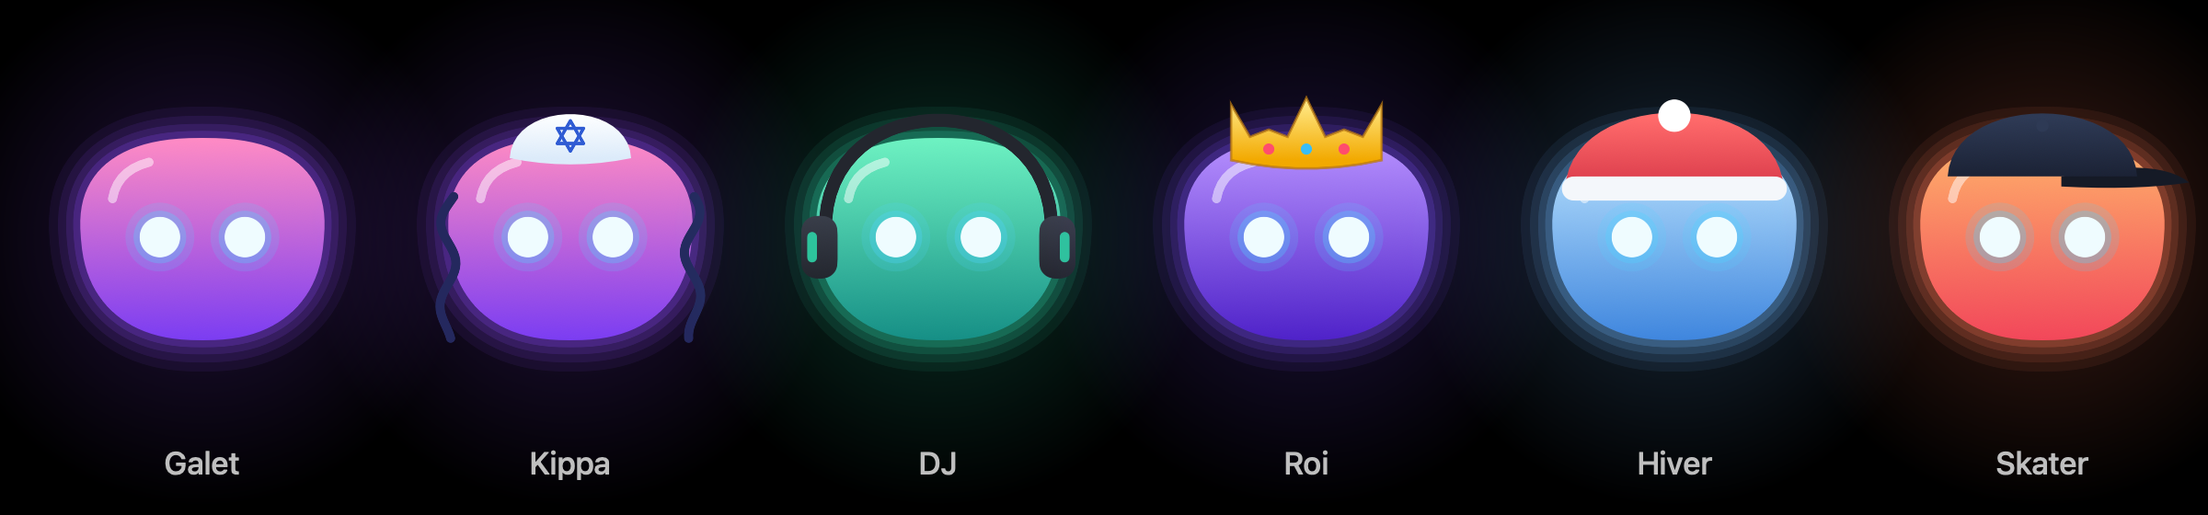
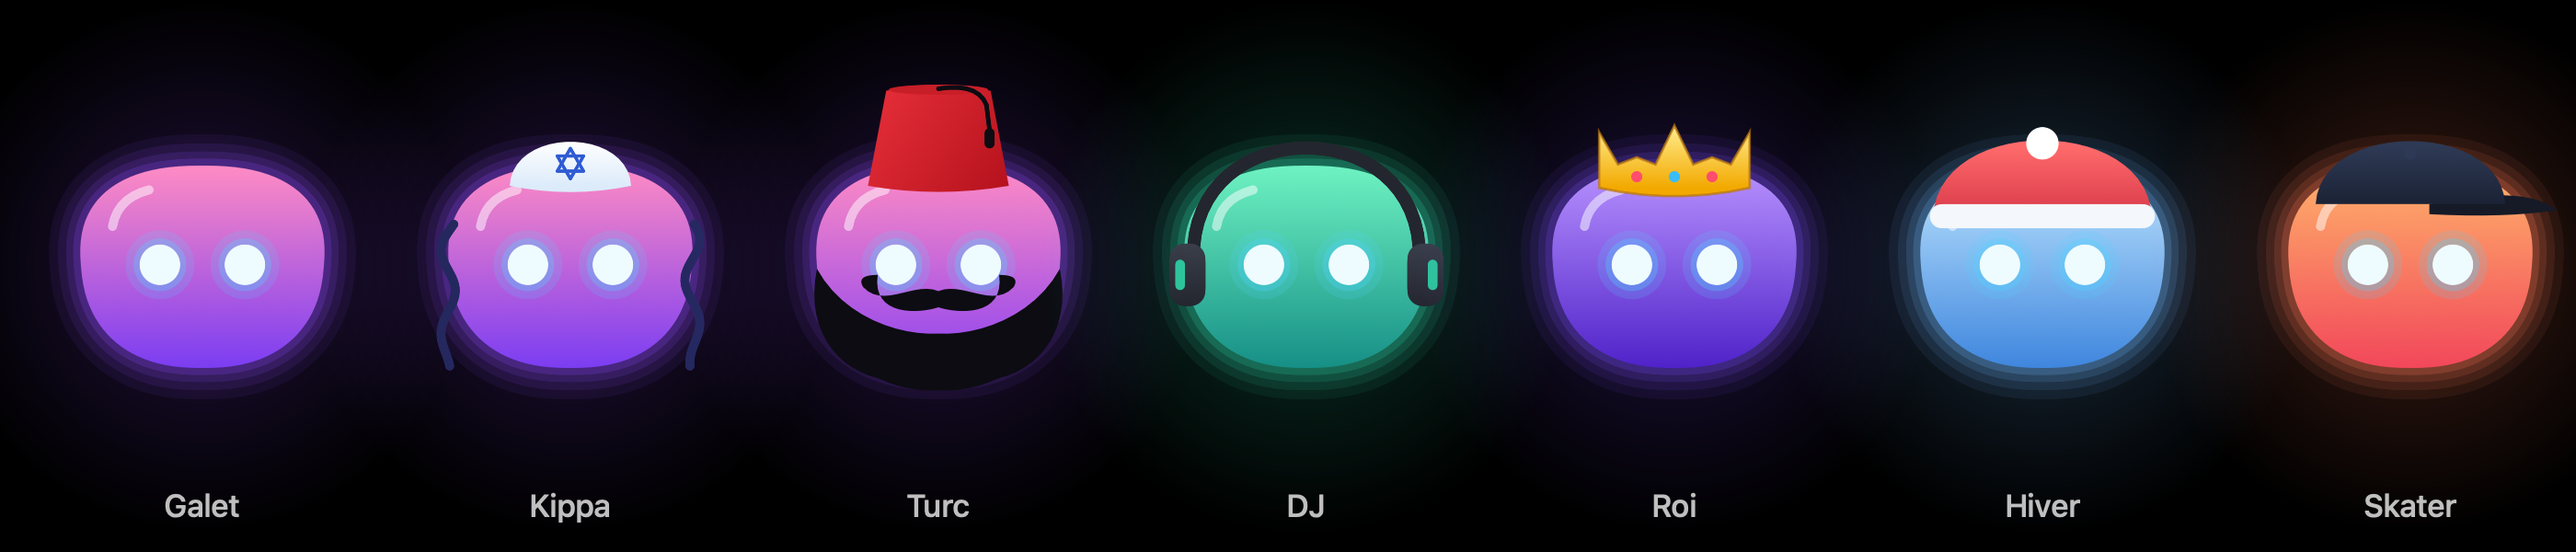
Skin Turc : fez rouge à pompon, barbe et moustache

diff --git a/app/Mochi.swift b/app/Mochi.swift
@@ -478,11 +478,58 @@ final class Mochi {
         case .kippah:
             drawPayot(ctx, hw: hw, hh: hh)
             drawKippah(ctx, hw: hw, hh: hh)
+        case .fez: drawFez(ctx, hw: hw, hh: hh)
         case .headphones: drawHeadphones(ctx, hw: hw, hh: hh)
         case .crown: drawCrown(ctx, hw: hw, hh: hh)
         case .beanie: drawBeanie(ctx, hw: hw, hh: hh)
         case .cap: drawCap(ctx, hw: hw, hh: hh)
         }
+    }
+
+    /// Skin Turc : grande barbe noire, moustache, et le fez rouge à pompon noir.
+    private func drawFez(_ ctx: GraphicsContext, hw: Double, hh: Double) {
+        let black = Color(hex: "#0C0C12")
+        // Barbe : elle part du bas des joues, entoure la bouche par en dessous et dépasse sous la tête, en vagues.
+        var beard = Path()
+        beard.move(to: CGPoint(x: -hw * 1.0, y: hh * 0.02))
+        beard.addCurve(to: CGPoint(x: -hw * 0.5, y: hh * 1.1), control1: CGPoint(x: -hw * 1.1, y: hh * 0.6), control2: CGPoint(x: -hw * 0.85, y: hh * 1.0))
+        beard.addQuadCurve(to: CGPoint(x: 0, y: hh * 1.22), control: CGPoint(x: -hw * 0.25, y: hh * 1.24))
+        beard.addQuadCurve(to: CGPoint(x: hw * 0.5, y: hh * 1.1), control: CGPoint(x: hw * 0.25, y: hh * 1.24))
+        beard.addCurve(to: CGPoint(x: hw * 1.0, y: hh * 0.02), control1: CGPoint(x: hw * 0.85, y: hh * 1.0), control2: CGPoint(x: hw * 1.1, y: hh * 0.6))
+        beard.addCurve(to: CGPoint(x: 0, y: hh * 0.66), control1: CGPoint(x: hw * 0.78, y: hh * 0.5), control2: CGPoint(x: hw * 0.32, y: hh * 0.68))
+        beard.addCurve(to: CGPoint(x: -hw * 1.0, y: hh * 0.02), control1: CGPoint(x: -hw * 0.32, y: hh * 0.68), control2: CGPoint(x: -hw * 0.78, y: hh * 0.5))
+        beard.closeSubpath()
+        ctx.fill(beard, with: .color(black))
+        // Moustache : deux mèches qui remontent au bout.
+        for side in [-1.0, 1.0] {
+            var m = Path()
+            m.move(to: CGPoint(x: 0, y: hh * 0.24))
+            m.addCurve(to: CGPoint(x: side * hw * 0.62, y: hh * 0.2), control1: CGPoint(x: side * hw * 0.2, y: hh * 0.14), control2: CGPoint(x: side * hw * 0.45, y: hh * 0.42))
+            m.addQuadCurve(to: CGPoint(x: side * hw * 0.5, y: hh * 0.08), control: CGPoint(x: side * hw * 0.68, y: hh * 0.08))
+            m.addCurve(to: CGPoint(x: 0, y: hh * 0.4), control1: CGPoint(x: side * hw * 0.55, y: hh * 0.5), control2: CGPoint(x: side * hw * 0.15, y: hh * 0.46))
+            m.closeSubpath()
+            ctx.fill(m, with: .color(black))
+        }
+        // Fez : tronc de cône rouge posé sur le haut de la tête.
+        let bottom = -hh * 0.8, top = -hh * 1.8, wb = hw * 0.58, wt = hw * 0.43
+        var fez = Path()
+        fez.move(to: CGPoint(x: -wb, y: bottom))
+        fez.addLine(to: CGPoint(x: -wt, y: top + hh * 0.06))
+        fez.addQuadCurve(to: CGPoint(x: wt, y: top + hh * 0.06), control: CGPoint(x: 0, y: top - hh * 0.04))
+        fez.addLine(to: CGPoint(x: wb, y: bottom))
+        fez.addQuadCurve(to: CGPoint(x: -wb, y: bottom), control: CGPoint(x: 0, y: bottom + hh * 0.12))
+        fez.closeSubpath()
+        ctx.fill(fez, with: .linearGradient(Gradient(colors: [Color(hex: "#E8303A"), Color(hex: "#B5121D")]),
+                                            startPoint: CGPoint(x: -wb, y: top), endPoint: CGPoint(x: wb, y: bottom)))
+        guard !mini else { return }
+        ctx.fill(Path(ellipseIn: CGRect(cx: 0, cy: top + hh * 0.05, w: wt * 1.9, h: hh * 0.1)), with: .color(Color(hex: "#C81E28")))
+        // Pompon : un cordon noir qui part du sommet et pend sur le côté.
+        var cord = Path()
+        cord.move(to: CGPoint(x: 0, y: top + hh * 0.04))
+        cord.addQuadCurve(to: CGPoint(x: wt * 0.92, y: top + hh * 0.2), control: CGPoint(x: wt * 0.75, y: top - hh * 0.02))
+        cord.addLine(to: CGPoint(x: wt * 0.98, y: top + hh * 0.45))
+        ctx.stroke(cord, with: .color(black), style: StrokeStyle(lineWidth: max(0.6, hh * 0.045), lineCap: .round, lineJoin: .round))
+        ctx.fill(Path(roundedRect: CGRect(cx: wt * 0.98, cy: top + hh * 0.53, w: hh * 0.1, h: hh * 0.2), cornerRadius: hh * 0.05), with: .color(black))
     }
 
     /// Casque audio : arceau par-dessus, deux écouteurs sur les côtés.

diff --git a/app/Skins.swift b/app/Skins.swift
@@ -2,7 +2,7 @@ import Foundation
 
 /// Les skins du bonhomme : une palette (haut, bas, lueur) et un accessoire. Choisis dans les Réglages
 /// ou d'un clic droit ; tes potes voient le tien.
-enum Accessory { case none, kippah, headphones, crown, beanie, cap }
+enum Accessory { case none, kippah, fez, headphones, crown, beanie, cap }
 
 struct Skin: Identifiable, Equatable {
     let id: String
@@ -15,6 +15,7 @@ struct Skin: Identifiable, Equatable {
     static let all = [
         Skin(id: "galet", name: "Galet", top: "#FF8BC4", bottom: "#7B3DF2", aura: "#8F4BFF", accessory: .none),
         Skin(id: "kippa", name: "Kippa", top: "#FF8BC4", bottom: "#7B3DF2", aura: "#8F4BFF", accessory: .kippah),
+        Skin(id: "turc", name: "Turc", top: "#FF8BC4", bottom: "#8E44F0", aura: "#8F4BFF", accessory: .fez),
         Skin(id: "dj", name: "DJ", top: "#6EF2C2", bottom: "#168F86", aura: "#2DD4A7", accessory: .headphones),
         Skin(id: "roi", name: "Roi", top: "#B892FF", bottom: "#4F22C9", aura: "#7C4DFF", accessory: .crown),
         Skin(id: "hiver", name: "Hiver", top: "#BFE6FF", bottom: "#3F86DE", aura: "#6FB7FF", accessory: .beanie),
